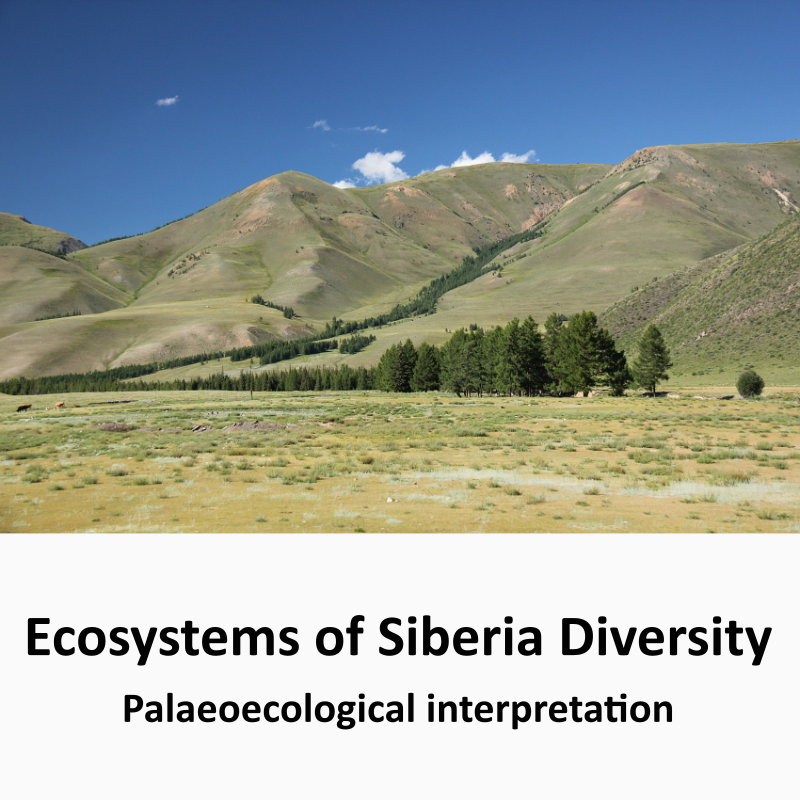
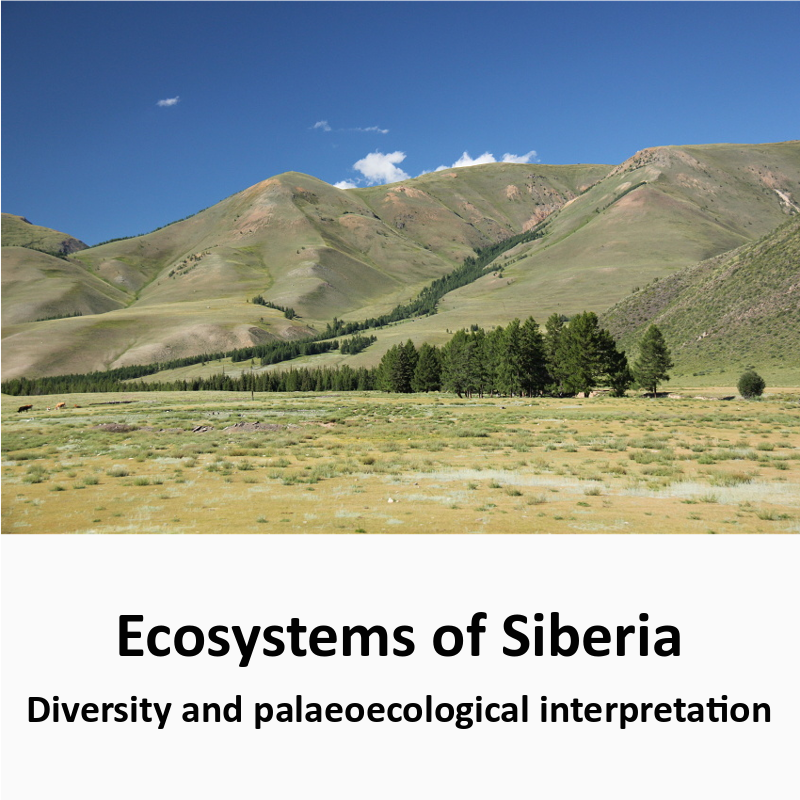
změna názvu Sibiře

diff --git a/src/content/people.js b/src/content/people.js
@@ -160,20 +160,6 @@ export const peopleEn = {
 	  img: ceplova
     },
     {
-      id: `gotzenberger`,
-      name: `Lars Götzenberger`,
-      position: `Researcher`,
-      description: ``,
-      email: `lars.goetzenberger@gmail.com`,
-      phoneNumber: ``,
-      is: `https://www.muni.cz/en/people/238736-lars-goetzenberger`,
-      orcid: `https://orcid.org/0000-0003-3040-2900`,
-      publons: `https://publons.com/researcher/991157/lars-gotzenberger/`,
-      scholar: `https://scholar.google.com/citations?hl=cs&user=VD8lvYMAAAAJ`,
-      researchgate: `https://www.researchgate.net/profile/Lars_Goetzenberger`, 
-	  img: gotzenberger
-    },
-    {
       id: `hajek`,
       name: `Ondřej Hájek`,
       position: `Researcher`,
@@ -564,21 +550,7 @@ export const peopleCz = {
       researchgate: `https://www.researchgate.net/profile/Natalie_Ceplova`,
 	  img: ceplova
     },
-    {
-      id: `gotzenberger`,
-      name: `Lars Götzenberger`,
-      position: `Výzkumník`,
-      description: ``,
-      email: `lars.goetzenberger@gmail.com`,
-      phoneNumber: ``,
-      is: `https://www.muni.cz/lide/238736-lars-goetzenberger`,
-      orcid: `https://orcid.org/0000-0003-3040-2900`,
-      publons: `https://publons.com/researcher/991157/lars-gotzenberger/`,
-      scholar: `https://scholar.google.com/citations?hl=cs&user=VD8lvYMAAAAJ`,
-      researchgate: `https://www.researchgate.net/profile/Lars_Goetzenberger`, 
-	  img: gotzenberger
-    },
-    {
+       {
       id: `hajek`,
       name: `Ondřej Hájek`,
       position: `Výzkumník`,
@@ -845,6 +817,10 @@ export const peopleCz = {
 };
 
 export const formerPeople = [
+    {
+    name: `Lars Götzenberger (2018–2020)`,
+    email: `lars.goetzenberger@gmail.com`
+  },
   {
     name: `Markéta Chudomelová (2013–2020)`,
     email: `marketa.chudomelova@ibot.cas.cz`

diff --git a/src/content/projects/project2.js b/src/content/projects/project2.js
@@ -2,7 +2,7 @@ import React from "react";
 
 export const project2en = {
   name: "project2",
-  title: `Ecosystems of Siberia Diversity - Palaeoecological interpretation`,
+  title: `Ecosystems of Siberia - Diversity and palaeoecological interpretation`,
   body: (
     <div>
       <div>
